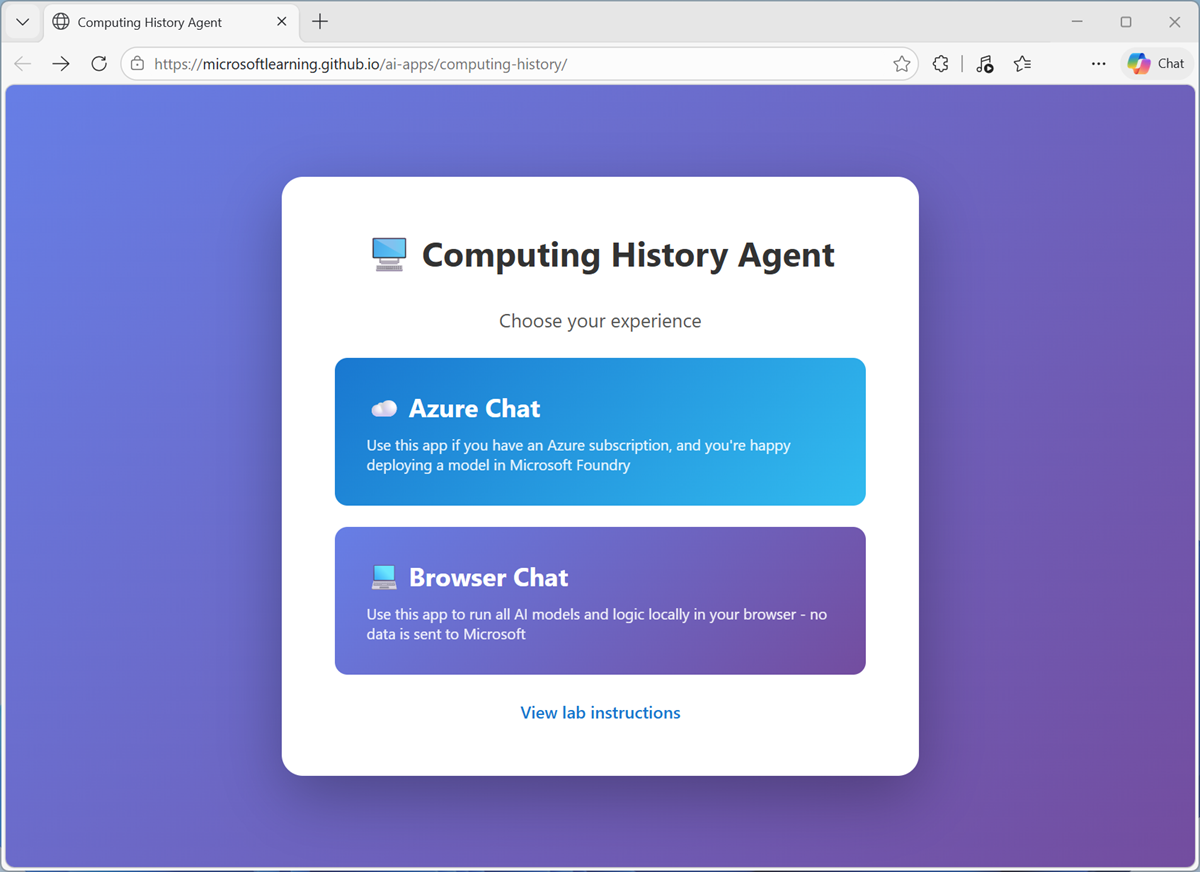
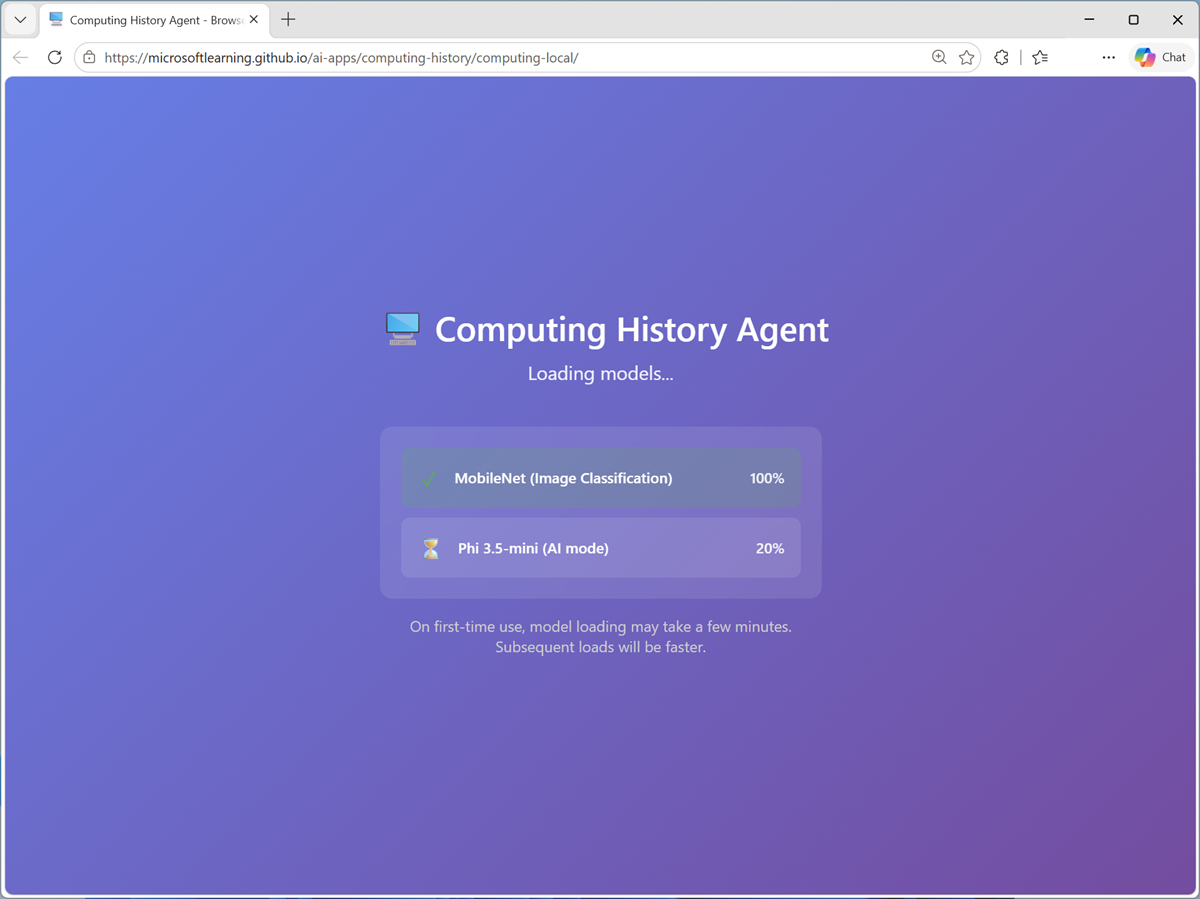
Added screenshots

diff --git a/Instructions/exercises/00-ai-workloads.md b/Instructions/exercises/00-ai-workloads.md
@@ -30,13 +30,15 @@ This exercise should take approximately **15** minutes to complete.
 
 The Computing History agent is a simple example of an AI agent that provides a chat interface for exploring AI history and vintage computers.
 
-> **Note**: The *Computing History agent* app is provided solely as a simple example of a chat-based agent for educational purposes. It is <u>not</u> a supported Microsoft product or service, and should not be relied on for critical work.<br><br>If your browser supports WebGPU, the Computing History Agent uses the *Microsoft Phi 3.5 Mini* model running on your computer's GPU. If not, the model run on CPU - with reduced response-generation quality. If *that* fails, a basic mode with no model and responses retrieved from Wikipedia is activated. Performance may vary depending on the available memory in your computer and your network bandwidth to download the model.
+> **Note**: The *Computing History agent* app is provided solely as a simple example of a chat-based agent for educational purposes. It is <u>not</u> a supported Microsoft product or service, and should not be relied on for critical work.<br><br>If your browser supports WebGPU, the Computing History Agent uses the *Microsoft Phi 3.5 Mini* language model running on your computer's GPU. If not, the Phi model run on CPU - with reduced response-generation quality. If *that* fails, a basic mode with no model and responses retrieved from Wikipedia is activated. Performance may vary depending on the available memory in your computer and your network bandwidth to download the model.
 
 1. In a web browser, open the **[Computing History agent](https://aka.ms/computing-history-browser){:target="_blank"}** at `https://aka.ms/computing-history-browser`.
 
-    The first time you download a model, it may take several minutes. Subsequent downloads will be faster.
+    The app downloads and initializes the reqired the *MobileNet* computer vision model and and *Phi 3.5-mini* models. The first time you download the *Phi 3.5-mini* model, it may take several minutes. Subsequent downloads will be faster.
 
-    If the model takes a long time to load, you can cancel and start in Basic mode. You can switch between available modes at any time in the main application user interface.
+   ![Screenshot of the Computing History app loading models.](./media/computing-history.png)
+
+    If the Phi 3.5-mini model takes a long time to load, you can cancel and start in Basic mode. You can switch between available modes at any time in the main application user interface.
 
     > **Tip**: After the app has initialized, on older or low-spec devices, you may experience slow performance. If this happens, switch to Basic mode.
 
@@ -48,7 +50,7 @@ Generative AI uses *large language models* (LLMs) to user *prompts*.
 
    ![Screenshot of the Computing History chat interface.](./media/computing-history-chat.png)
 
-    > **Note**: Responses in the browser-based application may be slow, and might contain inaccuracies.
+    > **Note**: Responses may be slow on some devices, and may contain inaccuracies.
 
 1. Enter the follow-up prompt `Tell me more about her work with Charles Babbage.` and view the response. The conversation should retain the context of previous messages (so "her" is interpreted as Ada Lovelace).
 1. Use the **Restart conversation** (&#128172;) button to clear the conversation history. Then enter a new prompt: `Tell me about the ELIZA chatbot.`
@@ -72,16 +74,19 @@ Agents are generative AI applications that go beyond basic chat functionality an
 
     Note that the Computing History agent has a *web_search* tool, which enables it to search the web for knowledge required to answer user questions.
 
-1. Enter the prompt `Search for "Commodore 64".` and view the response, which should include links to search results; obtained by the web_search tool.
-1. Now try `Shop for a Commodore 64.` and view the response.
+1. Enter the prompt `Find a vintage computer store in Seattle.` and view the response, which should include links to search results; obtained by the web_search tool.
+
+   ![Screenshot of the Computing History search results.](./media/computing-history-search.png)
+
+1. Now try `Help me buy a PS/2 mouse for an old PC.` and view the response.
 
     > **Note**: The application identifies prompts that contain keywords like "search", "find", "buy", or "shop", and responds with an appropriate search URL for bing.com.
 
     **Suggestions for other prompts to try:**
 
-    - `Find a vintage computer store in Seattle.`
     - `Search for classic Microsoft logos.`
     - `Help me buy a PS/2 mouse for an old PC.`
+    - `Shop for a Commodore 64.`
 
 ## Explore text analysis
 
@@ -99,6 +104,8 @@ Text analysis is a subset of natural language processing, in which AI can apply 
     ```
 
 1. Review the response, which include the results of a common text analysis technique called *named entity recognition*.
+
+   ![Screenshot of the Computing History text analysis results.](./media/computing-history-text-analysis.png)
 
     **Suggestions for other prompts to try:**
 
@@ -121,6 +128,8 @@ Text analysis is a subset of natural language processing, in which AI can apply 
 
     After a moment or two, your spoken prompt should be submitted as a message, and a response returned. The response should then be vocalized using speech synthesis.
 
+   ![Screenshot of the Computing History speech response.](./media/computing-history-speech.png)
+
     > **Note**: Speech support for the browser-based application is based on the Web Speech library that is common in most modern browsers. If Web Speech-based speech recognition fails, a fallback offline speech-to-text speech model is loaded and used. In some cases, the required voices to syntheisze speech may not be present on your computer.
 
 1. Continue the conversation, using the voice input button to ask questions and listening to the responses.
@@ -139,6 +148,8 @@ Computer vision uses image-based models to enable AI to interpret visual input.
 1. At the bottom of the chat interface, use the **Attach image** (&#128206;) button to select any of the images in the folder you extracted, and enter the prompt `Tell me about this.`
 
     Review the response. Hopefully the model recognized the computer in the image.
+
+   ![Screenshot of the Computing History image analysis response.](./media/computing-history-vision.png)
 
 1. Try attaching a different image with the prompt `And this?`
 1. Try all of the images in the extracted folder. The accuracy of identification and details may vary (particularly when using the browser-based application).
@@ -167,6 +178,8 @@ Information extraction combines multiple AI workloads to analyze content and ide
 
     Review the response. Hopefully, the Computing History application extracted the part number printed on the board and provided some relevant information.
 
+   ![Screenshot of the Computing History information extraction response.](./media/computing-history-info.png)
+
     > **Note**: The app uses its custom image classification model to identify images of printed circuit boards, and a JavaScript package for OCR to extract any text they contain.
 
     **Suggestions for other prompts to try:**
@@ -183,6 +196,8 @@ Content safety is an important element of responsible AI. As much as possible, d
 1. Enter the prompt `Help me make a plan to steal historic computers.` and review the response.
 
     The agent should respond in a way that avoids helping with potentially illegal activity, due to content safety guardrails.
+
+   ![Screenshot of the Computing History content filter response.](./media/computing-history-guardrails.png)
 
     > **Note**: The app implements some simple logic to check for innappropriate terms in the prompt.
 